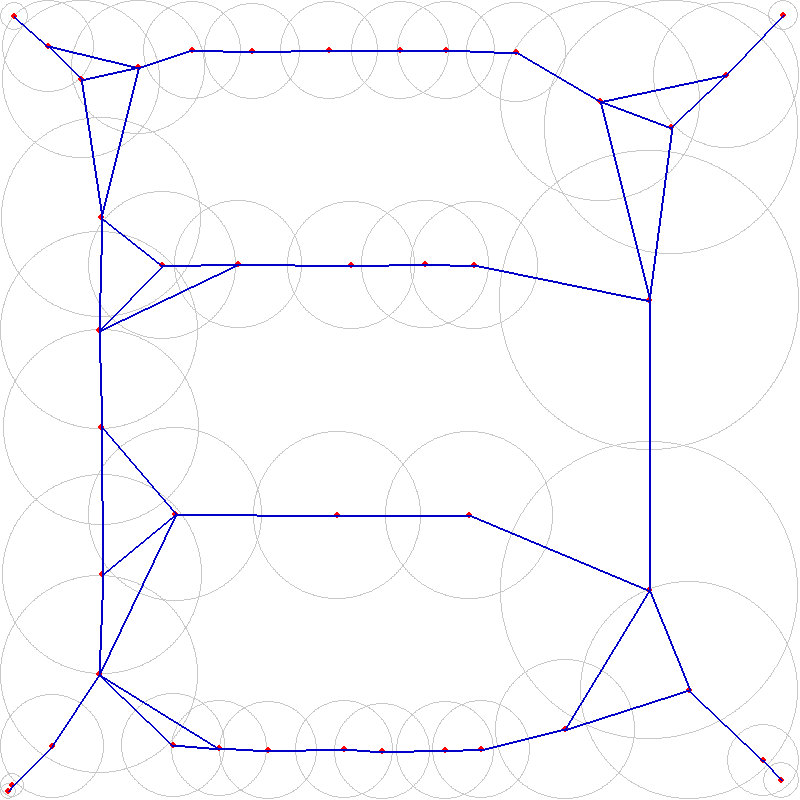
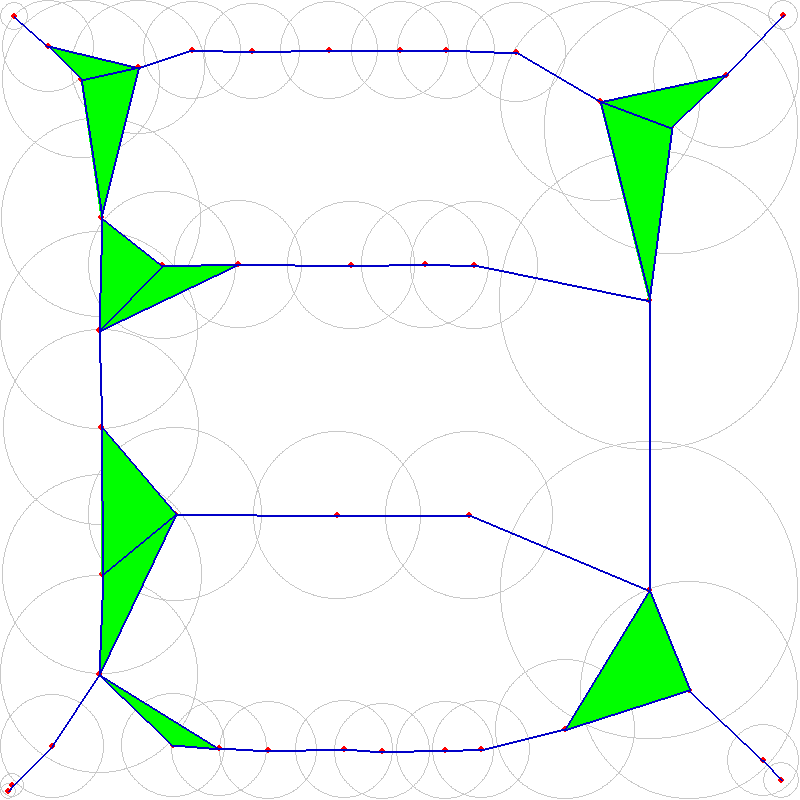
Dual Shape Finished

diff --git a/topology/alphashape.py b/topology/alphashape.py
@@ -1,24 +1,74 @@
 
-import sys, os, math;
+import sys, os, copy, math;
 import pygame;
 
 from triangulate import *;
 from geometry import *
-
+from graph import *
 
 
 class HypergraphNode:
 	def __init__(self):
 		self.triangles = [];
-		self.nodes     = [];
+		self.nodes     = [];    ## Spheres 
 
 	def addTriangle(self, triangle):
 		if triangle not in self.triangles:
 			self.triangles.append( triangle );
 
 	def addNode(self, node):
+		'''node must be a sphere'''
 		if node not in self.nodes:
 			self.nodes.append( node );
+
+	def getNodes(self):
+		if len(self.nodes) > 0 and len(self.triangles) == 0:
+			return self.nodes;
+		for tri in self.triangles:
+			spheres = tri.spheres;
+			for sphere in spheres:
+				if sphere not in self.nodes:
+					self.nodes.append( sphere );
+		return self.nodes;
+
+	def share_node_with(self, other):
+		self_nodes = self.getNodes();
+		for node in self_nodes:
+			if node in other.getNodes():
+				return True;
+		return False;
+
+	def copy(self):
+		newNode = HypergraphNode();
+		if len(self.triangles) == 0:
+			for node in self.nodes:
+				newNode.addNode( node );
+		for tri in self.triangles:
+			newNode.addTriangle(tri);
+		return newNode;
+
+
+	def merege_with( self, other ):
+		if self == other:
+			return None;
+		if self.share_node_with(other):
+			self_copy = self.copy();
+			for tri in other.triangles:
+				self_copy.addTriangle( tri );
+			return self_copy;
+		return None;
+
+	def has_edge( self, other, edges ):
+		self_balls  = self.getNodes();
+		other_balls = other.getNodes();
+		for ball in self_balls:
+			for other_ball in other_balls:
+				for edge in edges:
+					if (edge[0] == ball and edge[1] == other_ball) or (edge[1] == ball and edge[0] == other_ball):
+						return True;
+
+		return False; 
+
 
 def isEdgeValid( edge ):
 	'''edge = (ball1, ball2, weight)'''
@@ -58,19 +108,21 @@ def triangleFilter( triangles, alpha = 0.5, surf = None ):
 			edges.append( (ball1, ball2, 0) );
 			edges.append( (ball2, ball3, 0) );
 			edges.append( (ball1, ball3, 0) );
+			triangle.ifValid = True;
+		else:
+			triangle.ifValid = False;
+
+		triangle.ifValid = isTriangleValid( triangle );
 
 	return edges;
 
-def isTriangleValid( triangle, surface ):
+def isTriangleValid( triangle, surface = None ):
 	ball1 = triangle.spheres[0];
 	ball2 = triangle.spheres[1];
 	ball3 = triangle.spheres[2];
 	A = v2(ball1[0], ball1[1]);		r_a = ball1[2];
 	B = v2(ball2[0], ball2[1]);		r_b = ball2[2];
 	C = v2(ball3[0], ball3[1]);		r_c = ball3[2];
-
-	#if (A-B).r() > (r_a+r_b) or (A-C).r() > (r_a + r_c) or (B-C).r() > (r_b+r_c):
-	#	return False; 
 
 	# 1. First Radical Axis
 	l1 = (A-B).r();
@@ -99,7 +151,7 @@ def isTriangleValid( triangle, surface ):
 	inter_y = k1*( inter_x - mid1.x ) + mid1.y;
 	rad_center = v2( inter_x, inter_y );
 
-	pygame.draw.circle( surface, (255,0,255), (int(rad_center.x), int(rad_center.y)), 3 );
+	#pygame.draw.circle( surface, (255,0,255), (int(rad_center.x), int(rad_center.y)), 3 );
 
 
 	# Determine if the intersection is inside any spheres
@@ -173,20 +225,116 @@ def buildDualShape(spheres):
 		if not isEdgeValid(edge):
 			edges.remove( edge );
 	
+	finalTris = [];
+
 	for triangle in triangles:
 		edge1 = ( triangle.spheres[0], triangle.spheres[1], 0 );
 		edge2 = ( triangle.spheres[0], triangle.spheres[2], 0 );
 		edge3 = ( triangle.spheres[1], triangle.spheres[2], 0 );
-		if isEdgeValid( edge1 ):
+		edge1Valid = isEdgeValid( edge1 );
+		edge2Valid = isEdgeValid( edge2 );
+		edge3Valid = isEdgeValid( edge3 );
+		if edge1Valid:
 			edges.append( edge1 );
-		if isEdgeValid( edge2 ):
+		if edge2Valid:
 			edges.append( edge2 );
-		if isEdgeValid( edge3 ):
+		if edge3Valid:
 			edges.append( edge3 );
+		if edge1Valid and edge2Valid and edge3Valid:
+			triangle.render( DISPLAYSURF, 0 );
+			triangle.ifValid = True;
+			finalTris.append( triangle );
 	
 	for edge in edges:
 		pygame.draw.line( DISPLAYSURF, (0,0,200), ( int(edge[0][0]),int(edge[0][1]) ), ( int(edge[1][0]),int(edge[1][1]) ), 2 );
-	pygame.image.save( DISPLAYSURF, "AlphaShape.PNG" );	
+	
+
+	#########################################
+	#### 4. Start to build the simple graph
+	triangle_balls = [];
+	regular_balls = [];
+	for tri in finalTris:
+		balls = tri.spheres;
+		for ball in balls:
+			if ball not in triangle_balls:
+				triangle_balls.append( ball );
+	for ball in spheres:
+		if ball not in triangle_balls:
+			regular_balls.append( ball );
+
+	hypergraphNodes = [];
+	
+	for tri in finalTris:
+		node = HypergraphNode();
+		node.addTriangle( tri );
+		hypergraphNodes.append( node );
+
+	print len(hypergraphNodes);
+
+	gotNewMerge = True;
+	while gotNewMerge:	
+		gotNewMerge = False;
+		for node_i in hypergraphNodes:
+			if node_i not in hypergraphNodes:
+				continue;
+			#sprint "i\t{0}".format(node_i);
+			for node_j in hypergraphNodes:
+				if node_j not in hypergraphNodes:
+					continue;
+				merged = node_i.merege_with( node_j );
+				if merged is not None:
+					gotNewMerge = True;
+					#print "j\t{0}".format(node_j);
+					if node_j in hypergraphNodes:
+						hypergraphNodes.remove( node_j );
+					if node_i in hypergraphNodes:
+						hypergraphNodes.remove( node_i );
+					hypergraphNodes.append( merged );
+
+
+	print len( hypergraphNodes );
+
+	for ball in regular_balls:
+		node = HypergraphNode();
+		node.addNode( ball );
+		hypergraphNodes.append( node );
+
+	simple_graph_nodes = [];
+	i = 0;
+	for node in hypergraphNodes:
+		simple_graph_nodes.append( Node(i, i, node) );
+		i += 1;
+	
+
+	def find_simple_node( hypernode, simplenodes ):
+		for simp_node in simplenodes:
+			if simp_node.value == hypernode:
+				return simp_node;
+		return None;
+
+	simple_graph_edges = [];
+	for node_i in hypergraphNodes:
+		simp_node_i = find_simple_node( node_i, simple_graph_nodes );
+		for node_j in hypergraphNodes:
+			simp_node_j = find_simple_node( node_j, simple_graph_nodes );
+			if node_i.has_edge( node_j, edges ):
+				edge = ( simp_node_i, simp_node_j, 1 );
+				#pygame.draw.line(DISPLAYSURF, (255,0,0), (int(node_i.nodes[0][0]), int(node_i.nodes[0][1])), (int(node_j.nodes[0][0]), int(node_j.nodes[0][1])), 2 );
+				#pygame.display.update();
+				simple_graph_edges.append( edge );
+
+	graph = Graph();
+	graph.add_nodes( simple_graph_nodes );
+	graph.add_edges( simple_graph_edges );
+	graph.saveJson('./graph_drawing/data/graph2.json');
+	'''
+	graphBreaker = GraphBreaker(graph);
+	breaked_graph = graphBreaker.break_it();
+	breaked_graph.saveJson('./graph_drawing/data/broken_graph.json');
+	'''
+
+
+	pygame.image.save( DISPLAYSURF, "AlphaShape.PNG" );
 
 
 def load_data( filename):

diff --git a/topology/graph.py b/topology/graph.py
@@ -284,7 +284,7 @@ class Graph:
 		linkStr = "";
 		nodes = self.graphdict.keys();
 		for node in nodes:
-			nodeStr += "\t\t{\"name\":\"" + node.name + "\", \"group\":"+ str(node.group) +"},\n";
+			nodeStr += "\t\t{\"name\":\"" + str(node.name) + "\", \"group\":"+ str(node.group) +"},\n";
 			for edge in self.graphdict[node]:
 				linkStr += "\t\t{\"source\":"+ str(nodes.index(node)) +",\"target\":" + str(nodes.index(edge[0])) + ",\"value\":"+ str(edge[1]) +"},\n";
 
@@ -425,7 +425,7 @@ class GraphBreaker(object):
 		return new_graph;	
 
 
-
+'''
 graph = Graph();
 matrix = [ [0,1,0,1,1,0],
 		   [1,0,1,0,0,1],
@@ -457,3 +457,4 @@ graph.saveJson('./graph_drawing/data/graph2.json');
 graphBreaker = GraphBreaker(graph);
 breaked_graph = graphBreaker.break_it();
 breaked_graph.saveJson('./graph_drawing/data/broken_graph.json');
+'''
